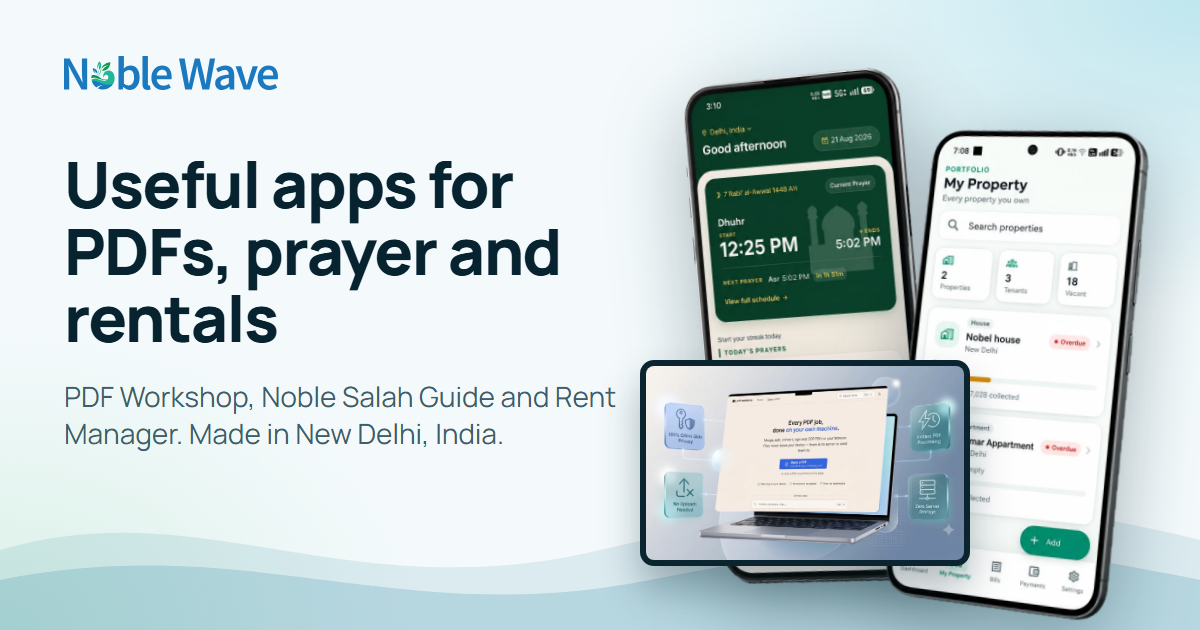
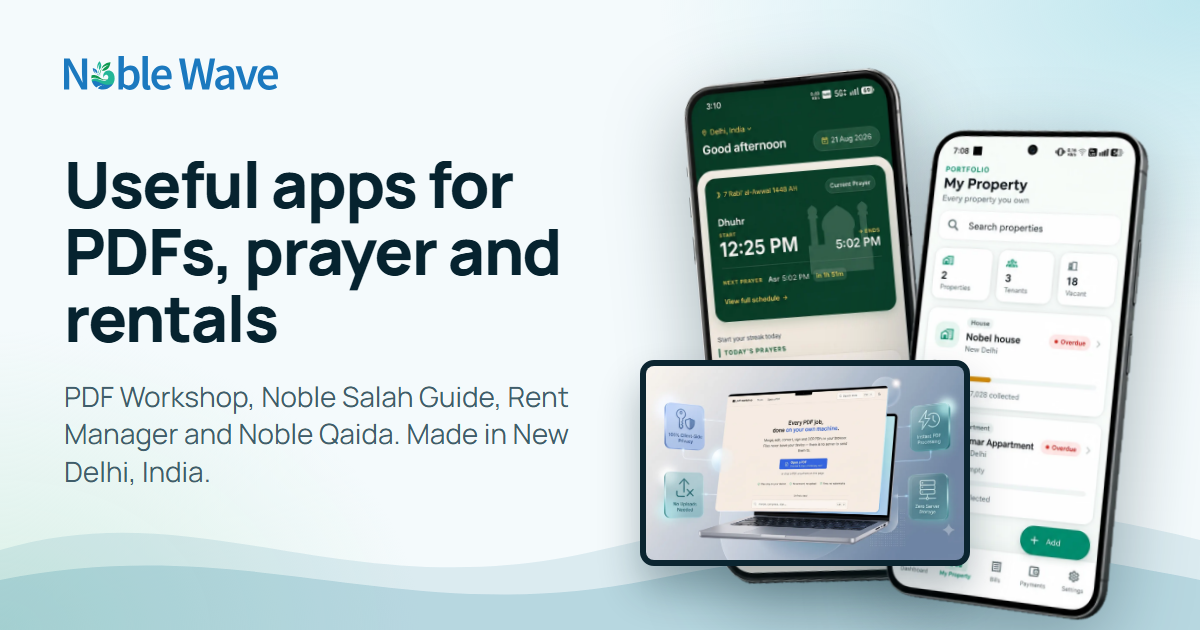
Add Noble Qaida as the fourth product
Adds its page, laptop screenshots, link-preview card and FAQ, and updates
the copy that lists the products (home, about, products, contact, SEO).

Changed region(s): [[0.0617, 0.6032, 0.5242, 0.7841]]

diff --git a/src/app/core/products.config.ts b/src/app/core/products.config.ts
@@ -31,7 +31,7 @@ export interface Product {
   readonly tagline: string;
   readonly description: string;
   /** schema.org applicationCategory, used in the SoftwareApplication structured data. */
-  readonly category: 'BusinessApplication' | 'UtilitiesApplication' | 'LifestyleApplication';
+  readonly category: 'BusinessApplication' | 'UtilitiesApplication' | 'LifestyleApplication' | 'EducationalApplication';
   /** True when the product is free to use; it adds a zero-price offer to the structured data. */
   readonly free?: boolean;
   /** Short platform badges shown next to the name. */
@@ -170,6 +170,43 @@ export const PRODUCTS: readonly Product[] = [
       { file: 'rent-units', alt: 'Rent Manager property screen showing expected, collected and outstanding rent for each unit' },
       { file: 'rent-add-property', alt: 'Rent Manager add property form with house, apartment, shop and PG types' },
       { file: 'rent-payments', alt: 'Rent Manager payments screen with monthly collections by UPI, cash and bank' },
+    ],
+  },
+  {
+    id: 'noble-qaida',
+    name: 'Noble Qaida',
+    device: 'desktop',
+    category: 'EducationalApplication',
+    free: true,
+    tagline: 'Learn letters and numbers in Arabic, Urdu, Hindi and English',
+    description:
+      'Noble Qaida is a free web app where children learn the letters and numbers of Arabic, Urdu, Hindi and English. Tap a letter to hear it, follow a guided learning path, and let parents track progress and daily goals.',
+    platforms: ['Web'],
+    features: [
+      'Letters and numbers in Arabic, Urdu, Hindi and English',
+      'Tap any letter to hear its sound, or play them all in a row',
+      'A guided learning path with a Continue button',
+      'Daily goals and a streak to build a learning habit',
+      'Progress and Parents sections to follow how a child is doing',
+    ],
+    faq: [
+      { q: 'What is Noble Qaida?', a: 'Noble Qaida is a free web app where children learn the letters and numbers of Arabic, Urdu, Hindi and English, with sounds to hear and a guided learning path.' },
+      { q: 'Is Noble Qaida free?', a: 'Yes. It is free to use in your web browser.' },
+      { q: 'Which languages can children learn?', a: 'Arabic, Urdu, Hindi and English. You choose the language when you start.' },
+      { q: 'Can parents follow progress?', a: 'Yes. The app has Progress and Parents sections, plus daily goals and a streak to keep children motivated.' },
+      { q: 'Do I need to install anything?', a: 'No. Open it in your web browser and start learning.' },
+    ],
+    glow: '20 160 140',
+    story: [
+      { file: 'qaida-1', title: 'A guided learning path', text: 'Pick up where you left off with Continue, follow the path from Explore to Hear & Pick, and watch the daily goal and streak.', alt: 'Noble Qaida Learn screen on a laptop with a daily goal, a streak, a Continue button and a learning path' },
+      { file: 'qaida-2', title: 'Letters you can hear', text: 'Tap a letter to hear how it sounds, or press Play all to go through them one by one. English has capital and lowercase letters, vowels and numbers.', alt: 'Noble Qaida Letters screen showing the English capital letters A to P in colourful tiles with their sounds' },
+      { file: 'qaida-3', title: 'Arabic, Urdu and Hindi too', text: 'Switch the language and the reader. Urdu letters can be played in the voice of Qari Sadruddin.', alt: 'Noble Qaida Letters screen showing Urdu letters, with a language picker and a reader called Qari Sadruddin' },
+    ],
+    links: [{ kind: 'web', label: 'Open web app', url: 'https://qaida.noble-wave.com/learn' }],
+    screenshots: [
+      { file: 'qaida-1', alt: 'Noble Qaida Learn screen with a daily goal, a streak and a learning path' },
+      { file: 'qaida-2', alt: 'Noble Qaida English Letters screen with colourful letter tiles' },
+      { file: 'qaida-3', alt: 'Noble Qaida Urdu Letters screen with a reader picker' },
     ],
   },
 ];

diff --git a/src/app/core/content.config.ts b/src/app/core/content.config.ts
@@ -97,7 +97,7 @@ export const PRINCIPLES: readonly Principle[] = [
   { icon: 'users', title: 'Built by a small team', text: 'The people who build each app also support it, so feedback goes straight to them.' },
   { icon: 'layout', title: 'Simple to use', text: 'Clear screens and the tools you need up front, designed around everyday tasks.' },
   { icon: 'shield-check', title: 'Privacy respected', text: 'PDF Workshop processes your files in your browser, so they never leave your device.' },
-  { icon: 'check', title: 'Free to use', text: 'PDF Workshop, Noble Salah Guide and Rent Manager are all free.' },
+  { icon: 'check', title: 'Free to use', text: 'PDF Workshop, Noble Salah Guide, Rent Manager and Noble Qaida are all free.' },
 ];
 
 export const VALUES: readonly Principle[] = [
@@ -136,11 +136,11 @@ export interface FaqItem {
 export const FAQ: readonly FaqItem[] = [
   {
     q: 'Are your apps free?',
-    a: 'Yes. PDF Workshop, Noble Salah Guide and Rent Manager are all free to use.',
+    a: 'Yes. PDF Workshop, Noble Salah Guide, Rent Manager and Noble Qaida are all free to use.',
   },
   {
     q: 'Where can I use them?',
-    a: 'All three run in your web browser, so there is nothing to install. Noble Salah Guide is also available on Google Play for Android.',
+    a: 'All four run in your web browser, so there is nothing to install. Noble Salah Guide is also available on Google Play for Android.',
   },
   {
     q: 'Are my PDF files uploaded anywhere?',

diff --git a/src/app/pages/products/products.ts b/src/app/pages/products/products.ts
@@ -38,9 +38,9 @@ export class Products {
 
   constructor() {
     inject(SeoService).set({
-      title: 'Products: PDF Workshop, Noble Salah Guide, Rent Manager',
+      title: 'Our apps: PDF, prayer, rentals and learning',
       description:
-        'PDF Workshop for private, in-browser PDF tools, Noble Salah Guide for prayer times and Islamic tools, and Rent Manager for landlords: apps built and run by Noble Wave.',
+        'PDF Workshop, Noble Salah Guide, Rent Manager and Noble Qaida: free apps for PDFs, prayer times, rentals and learning letters, built and run by Noble Wave.',
       path: '/products',
       jsonLd: productListData(),
     });

diff --git a/src/app/core/site.config.ts b/src/app/core/site.config.ts
@@ -6,7 +6,7 @@ export const SITE = {
   name: 'Noble Wave',
   tagline: 'Useful apps for PDFs, prayer and rentals',
   description:
-    'Noble Wave builds apps people use daily: PDF Workshop for private PDF tools, Noble Salah Guide for prayer times and Rent Manager for landlords. Made in New Delhi.',
+    'Noble Wave builds free apps people use daily: PDF Workshop, Noble Salah Guide, Rent Manager and Noble Qaida, for PDFs, prayer, rentals and learning. Made in New Delhi.',
   url: 'https://noble-wave.com',
   email: 'info@noble-wave.com',
   phone: '+918448462846',

diff --git a/src/app/pages/legal/legal.ts b/src/app/pages/legal/legal.ts
@@ -106,7 +106,7 @@ const TERMS: LegalDoc = {
     },
     {
       heading: 'Products and third-party services',
-      paragraphs: ['Our apps, including PDF Workshop, Noble Salah Guide and Rent Manager, may be subject to separate terms and the policies of the stores or platforms that distribute them.'],
+      paragraphs: ['Our apps, including PDF Workshop, Noble Salah Guide, Rent Manager and Noble Qaida, may be subject to separate terms and the policies of the stores or platforms that distribute them.'],
     },
     {
       heading: 'Information on this site',

diff --git a/src/index.html b/src/index.html
@@ -7,7 +7,7 @@
     <meta name="viewport" content="width=device-width, initial-scale=1" />
     <meta
       name="description"
-      content="Noble Wave builds and runs apps people use every day: PDF Workshop, Noble Salah Guide and Rent Manager. Made in New Delhi, India."
+      content="Noble Wave builds and runs apps people use every day: PDF Workshop, Noble Salah Guide, Rent Manager and Noble Qaida. Made in New Delhi, India."
     />
     <meta name="theme-color" content="#0e7490" />
     <link rel="icon" href="favicon.ico" sizes="48x48" />

diff --git a/src/app/pages/about/about.ts b/src/app/pages/about/about.ts
@@ -117,7 +117,7 @@ export class About {
   constructor() {
     inject(SeoService).set({
       title: 'About Noble Wave',
-      description: `${SITE.name} is a small product team in ${SITE.location} that designs, builds and runs the apps we ship: PDF Workshop, Noble Salah Guide and Rent Manager.`,
+      description: `${SITE.name} is a small product team in ${SITE.location} that designs, builds and runs the apps we ship: PDF Workshop, Noble Salah Guide, Rent Manager and Noble Qaida.`,
       path: '/about',
     });
   }

diff --git a/src/app/pages/contact/contact.ts b/src/app/pages/contact/contact.ts
@@ -154,7 +154,7 @@ export class Contact {
   constructor() {
     inject(SeoService).set({
       title: 'Contact',
-      description: `Contact ${SITE.name}: ask about PDF Workshop, Noble Salah Guide or Rent Manager, or talk to us about a project. Email, phone or the form; we reply within one business day.`,
+      description: `Contact ${SITE.name}: ask about our apps or talk to us about a project. Email, phone or the form; we reply within one business day.`,
       path: '/contact',
     });
   }
